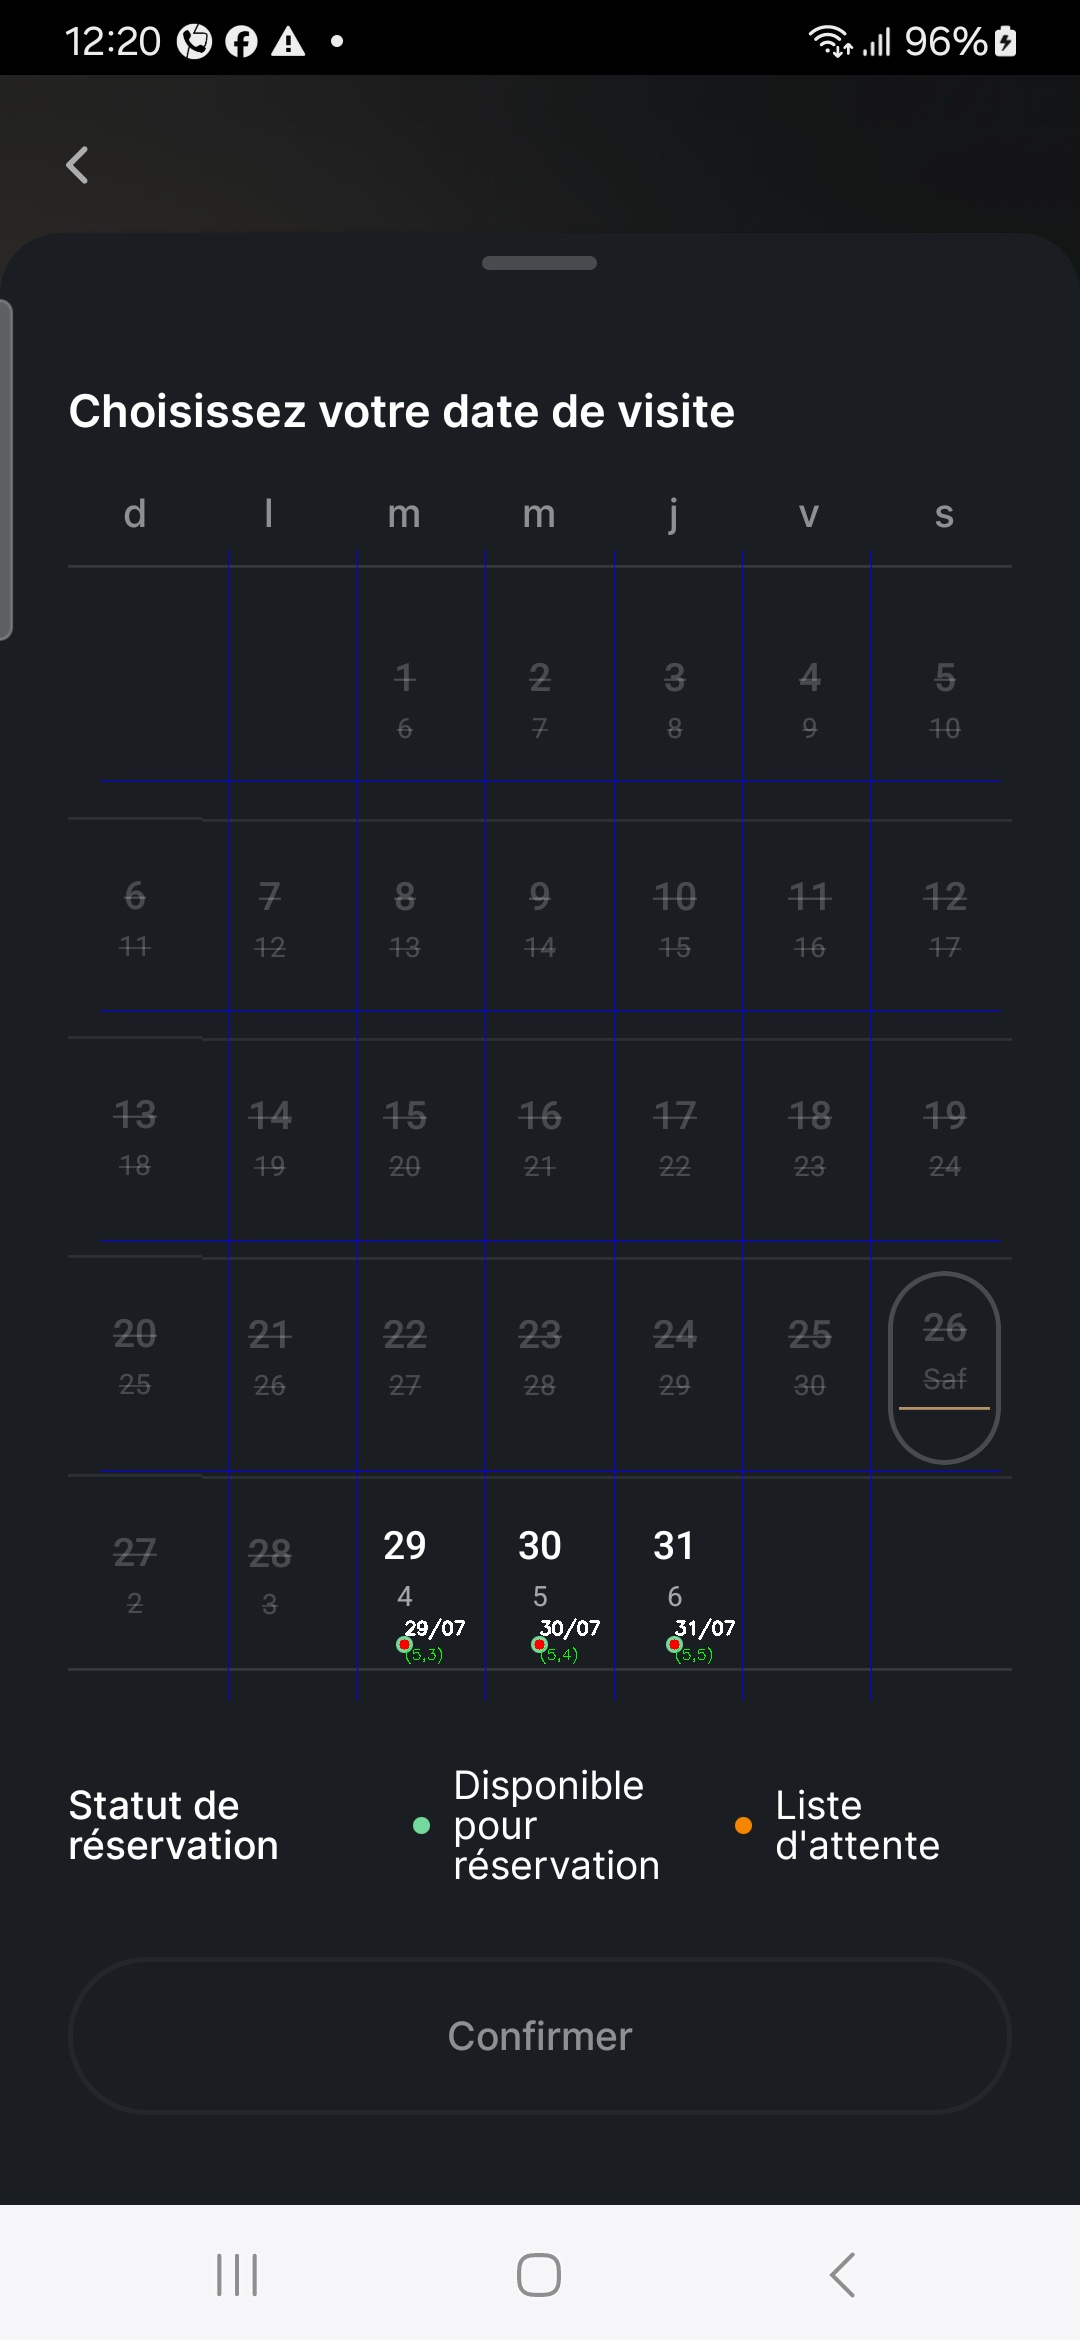
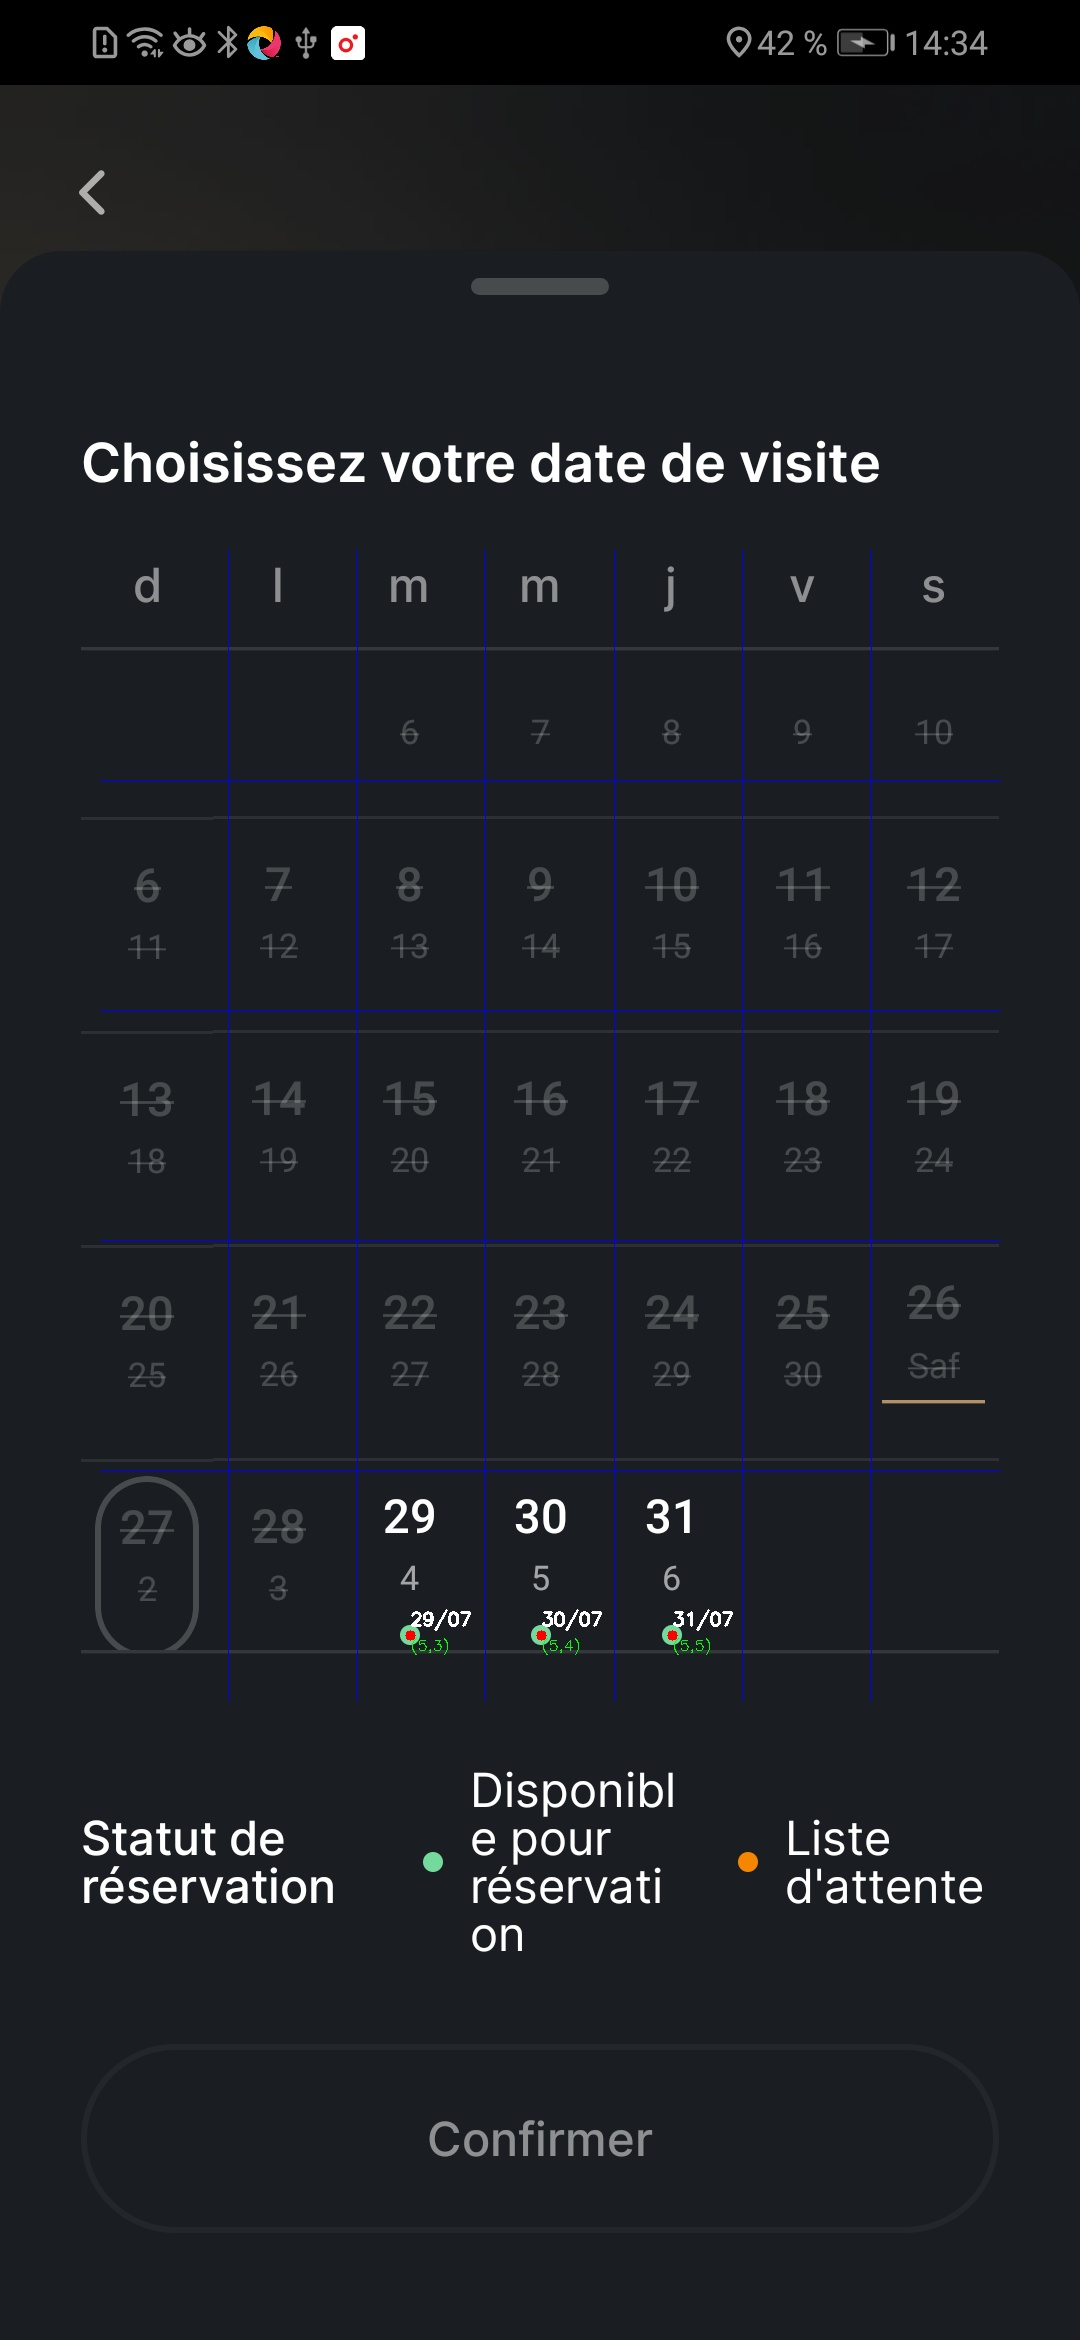
racem

diff --git a/login.py b/login.py
@@ -23,10 +23,10 @@ from appium.webdriver.common.touch_action import TouchAction
 
 
 
-csv_file = "C:/Users/lenovo/Desktop/riadh/omra/iraq/informations.csv"
-target_date = "27/07"
+csv_file = "C:/Users/SBS/Desktop/Hsouna/Indonesia10/informations.csv"
+target_date = "30/07"
 start_date = "26_07_2025"
-duration_days = 1  # Durée en jours
+duration_days = 8  # Durée en jours
 import threading
 
 def get_input_with_timeout(prompt, timeout):
@@ -47,10 +47,10 @@ def get_input_with_timeout(prompt, timeout):
 def setup_driver():
     options = UiAutomator2Options()
     options.platform_name = "Android"
-    options.platform_version = "14"  # Remplace par la version exacte de ton appareil
-    options.device_name = "RFCW50CH1ND"  # Remplace par l'ID de ton appareil (adb devices)
-    options.app_package = "com.moh.nusukapp"
-    options.app_activity = "com.moh.nusukapp/com.app.nusuk.LoginRegistrationActivity"
+    options.platform_version = "9"  # from adb shell getprop
+    options.device_name = "DEF4C19312001213"  # from adb devices
+    options.app_package = "com.moh.nusukapp"  # known from app details
+    options.app_activity = "com.app.nusuk.LoginRegistrationActivity"  # assumed (update if needed)
     options.automation_name = "uiautomator2"
     return webdriver.Remote("http://127.0.0.1:4723", options=options)
 
@@ -162,21 +162,29 @@ for index, row in df.iterrows():
                     else:
                         print("❌ Aucune validation trouvée.")
 
-                    sign_in_button = wait.until(EC.presence_of_element_located((AppiumBy.ID, "com.android.permissioncontroller:id/permission_allow_button")))
+                    sign_in_button = wait.until(EC.presence_of_element_located((AppiumBy.ID, "com.android.packageinstaller:id/permission_allow_button")))
                     sign_in_button.click()
+                   
 
-                    sign_in_button = wait.until(EC.presence_of_element_located((AppiumBy.ID, "com.moh.nusukapp:id/tvShareLocation")))
-                    sign_in_button.click()
-
-                    sign_in_button = wait.until(EC.presence_of_element_located((AppiumBy.ID, "com.android.permissioncontroller:id/permission_allow_foreground_only_button")))
-                    sign_in_button.click()
-
-                    sign_in_button = wait.until(EC.presence_of_element_located((AppiumBy.ID, "com.moh.nusukapp:id/tvNo")))
+                    sign_in_button = wait.until(EC.presence_of_element_located((AppiumBy.ID, "com.moh.nusukapp:id/nobleRawdahLL")))
                     sign_in_button.click()
                     
+                    time.sleep(2)
+                    # Récupérer tous les éléments visibles
+                    all_elements = driver.find_elements(AppiumBy.XPATH, "//*")
+                    book=0
+                    print("\n📌 Contenu complet de l'écran :\n")
+                    for element in all_elements:
+                            element_id = element.get_attribute("resource-id") or "Aucun ID"
+                            element_text = element.text or "Aucun texte"
+                            if "You already have an existing booking for" in element_text or "Vous avez déjà une réservation" in element_text or " have an active permit" in element_text:
+                                        df.at[index, 'RESERVATION'] ="1"
+                                        df.to_csv(csv_file, index=False, encoding="utf-8")
+                                        book=1
+                                        
+                            element_class = element.get_attribute("class") or "Aucune classe"
+                            print(f"🔹 ID: {element_id}, Texte: {element_text}, Classe: {element_class}")
 
-                    sign_in_button = wait.until(EC.presence_of_element_located((AppiumBy.ID, "com.moh.nusukapp:id/tvNobleRawdahTitle")))
-                    sign_in_button.click()
                     
 
                     type = None  # initialiser la variable
@@ -229,9 +237,10 @@ for index, row in df.iterrows():
                     screen_size = driver.get_window_size()
                     start_x = screen_size['width'] // 2
                     start_y = int(screen_size['height'] * 0.6)
-                    end_y = int(screen_size['height'] * 0.55)
-
-                    driver.swipe(start_x, start_y, start_x, end_y, 500)
+                    end_y = int(screen_size['height'] * 0.51)
+                    time.sleep(0.5)
+                    driver.swipe(start_x, start_y, start_x, end_y, 100)
+                    time.sleep(1.5)
                     screenshot_path = "images/calendar_screenshot.png"
                     driver.save_screenshot(screenshot_path)
                     print(f"Screenshot sauvegardé à : {screenshot_path}")
@@ -259,10 +268,17 @@ for index, row in df.iterrows():
 
 
                     # Filtrer les dates disponibles entre `start_date` et `end_date`
-                    filtered_dates = [
-                        (date, x,y) for date, x,y in available_dates
-                        if start_str <= date <= end_str  # Comparaison uniquement sur JJ/MM
-                    ]
+                    filtered_dates = []
+                    for date_str, x, y in available_dates:
+                        try:
+                            date_obj = datetime.strptime(date_str, "%d/%m")
+                            # Replace year so it matches start_dt and end_dt
+                            date_obj = date_obj.replace(year=start_dt.year)
+
+                            if start_dt <= date_obj <= end_dt:
+                                filtered_dates.append((date_str, x, y))
+                        except ValueError:
+                            print(f"⚠ Date format error with '{date_str}'")
 
                     # Afficher les résultats
                     print(f"\n🔹 Plage de dates : {start_str} → {end_str}")

diff --git a/utils.py b/utils.py
@@ -18,7 +18,7 @@ def generate_all_saudi_numbers():
     Génère toutes les possibilités de numéros mobiles saoudiens commençant par '058'
     et suivis de 7 chiffres (de 0000000 à 9999999).
     """
-    prefix = "51"
+    prefix = "59"
     for i in range(10**7):
         yield prefix + f"{i:07d}"
 
@@ -137,48 +137,49 @@ def merge_pdfs_in_folder(folder_path, output_file):
 
 # Exemple d'utilisation
 if __name__ == "__main__":
-    """filename_number_json = "C:/Users/lenovo/Desktop/riadh/omra/saudi_numbers.json"
+    folder_name = "Indonesia10"
+    csv_file = f"C:/Users/SBS/Desktop/Hsouna/{folder_name}/informations.csv"
+    
+
+    fieldnames = ["id","nom", "prenom", "date_de_naissance", "numero_visa","email","numero_tlf", "numero_passport","type_voyage","date_entree_madinah","duree_jours","have_a_compte","CREATION","RESERVATION","CONFIRMATION","date_reservation","heure"]
+
+    create_csv(csv_file,fieldnames)
+    dossier = "C:/Users/SBS/Desktop/Hsouna/PDFs"
+    fichier_sortie = f"C:/Users/SBS/Desktop/Hsouna/{folder_name}/VISA 23_07_2025.pdf"
+
+    merge_pdfs_in_folder(dossier, fichier_sortie)
+
+
+    """
+    filename_number_json = "C:/Users/SBS/Desktop/Hsouna/saudi_numbers.json"
     
 
     # Définition des colonnes (avec la nouvelle colonne 'creation')
     
-    save_saudi_numbers_to_json(filename_number_json, count=1028)
+    save_saudi_numbers_to_json(filename_number_json, count=10280)
+    email_base = "[email redacted]"
+    filename_email_json = "C:/Users/SBS/Desktop/Hsouna/email_variants.json"
+    save_variants_to_json(email_base, filename_email_json)
+    
 
     
         df = pd.read_csv(csv_file, dtype=str)
     for i in range(159,165):
         df.at[i,"RESERVATION"]="1"
         df.at[i,"CONFIRMATION"]="1"
-    email_base = "[email redacted]"
-    filename_email_json = "C:/Users/lenovo/Desktop/riadh/omra/email_variants.json"
-    save_variants_to_json(email_base, filename_email_json)
+
 
     df = pd.read_csv(csv_file, dtype=str)
     for i in range(0,70):
         df.at[i,"CREATION"]="1"
     df.to_csv(csv_file, index=False, encoding="utf-8")
-    """
-    """"""
-    folder_name = "indonesia5"
-    csv_file = f"C:/Users/lenovo/Desktop/riadh/omra/{folder_name}/informations.csv"
+    
     
 
-    fieldnames = ["id","nom", "prenom", "date_de_naissance", "numero_visa","email","numero_tlf", "numero_passport","type_voyage","date_entree_madinah","duree_jours","have_a_compte","CREATION","RESERVATION","CONFIRMATION","date_reservation","heure"]
-
-    create_csv(csv_file,fieldnames)
-    dossier = "C:/Users/lenovo/Desktop/riadh/omra/pdfs"
-    fichier_sortie = f"C:/Users/lenovo/Desktop/riadh/omra/{folder_name}/VISA 23_07_2025.pdf"
-
-    merge_pdfs_in_folder(dossier, fichier_sortie)
-
         
-    """ df.drop(i, inplace=True)  
+    df.drop(i, inplace=True)  
 
     df.reset_index(drop=True, inplace=True)  # Réinitialise l'index après suppression
     """
-
-    
-    """"""
-
 
     

diff --git a/CreationReservation.py b/CreationReservation.py
@@ -15,25 +15,27 @@ from utils import mois_en_lettres
 from pdf import pop_first_variant
 from selenium.webdriver.common.action_chains import ActionChains
 
-pays="Indonesia"
-paysUpper="indonesia"
-folder_name = "indonesia4"
+pays="Iraq"
+paysUpper="iraq"
+folder_name = "Indonesia10"
 # File paths
-csv_file = f"C:/Users/lenovo/Desktop/riadh/omra/{folder_name}/informations.csv"
-filename_email_json = "C:/Users/lenovo/Desktop/riadh/omra/email_variants.json"
-filename_number_json = "C:/Users/lenovo/Desktop/riadh/omra/saudi_numbers.json"
+csv_file = f"C:/Users/SBS/Desktop/Hsouna/{folder_name}/informations.csv"
+filename_email_json = "C:/Users/SBS/Desktop/Hsouna/email_variants.json"
+filename_number_json = "C:/Users/SBS/Desktop/Hsouna/saudi_numbers.json"
 
-target_date = "29/07"  # Adjust logic as needed
+target_date = "30/07"  # Adjust logic as needed
 time.sleep(60*0)
+
 def setup_driver():
     options = UiAutomator2Options()
     options.platform_name = "Android"
-    options.platform_version = "14"
-    options.device_name = "RFCW50CH1ND"
-    options.app_package = "com.moh.nusukapp"
-    options.app_activity = "com.moh.nusukapp/com.app.nusuk.LoginRegistrationActivity"
+    options.platform_version = "9"  # from adb shell getprop
+    options.device_name = "DEF4C19312001213"  # from adb devices
+    options.app_package = "com.moh.nusukapp"  # known from app details
+    options.app_activity = "com.app.nusuk.LoginRegistrationActivity"  # assumed (update if needed)
     options.automation_name = "uiautomator2"
     return webdriver.Remote("http://127.0.0.1:4723", options=options)
+
 
 # Load CSV
 df = pd.read_csv(csv_file, dtype=str)
@@ -255,9 +257,20 @@ for index, row in df.iterrows():
             # Handle permissions and location
             create_now = 0
             try:
-                elements = driver.find_elements(AppiumBy.ID, "com.android.permissioncontroller:id/permission_message")
+                
+                wait = WebDriverWait(driver, 10)
+                driver.save_screenshot("before_check.png")
+                print(driver.page_source)
+
+                element = wait.until(
+                        EC.presence_of_element_located(
+                            (AppiumBy.ID, "com.android.packageinstaller:id/permission_message")
+                        )
+                    )
+                print("Permission popup found:", element.text)
                 if elements and "Autoriser" in elements[0].text:
-                    sign_in_button = wait.until(EC.presence_of_element_located((AppiumBy.ID, "com.android.permissioncontroller:id/permission_allow_button")))
+                    print("Autorisation de l'application requise.\n")
+                    sign_in_button = wait.until(EC.presence_of_element_located((AppiumBy.ID, "com.android.packageinstaller:id/permission_allow_button")))
                     sign_in_button.click()
                     df.at[index, 'CREATION'] = "1"
                     df.to_csv(csv_file, index=False, encoding="utf-8")
@@ -266,7 +279,7 @@ for index, row in df.iterrows():
                     # Handle location permissions
                     sign_in_button = wait.until(EC.presence_of_element_located((AppiumBy.ID, "com.moh.nusukapp:id/tvShareLocation")))
                     sign_in_button.click()
-                    sign_in_button = wait.until(EC.presence_of_element_located((AppiumBy.ID, "com.android.permissioncontroller:id/permission_allow_foreground_only_button")))
+                    sign_in_button = wait.until(EC.presence_of_element_located((AppiumBy.ID, "com.android.packageinstaller:id/permission_allow_foreground_only_button")))
                     sign_in_button.click()
                     sign_in_button = wait.until(EC.presence_of_element_located((AppiumBy.ID, "com.moh.nusukapp:id/tvNo")))
                     sign_in_button.click()
@@ -334,7 +347,7 @@ for index, row in df.iterrows():
 
                     # Define date range
                     start_date = dict_row["date_entree_madinah"]  # e.g., "25_07_2025"
-                    duration_days = 7  # Define or get from CSV
+                    duration_days = 14  # Define or get from CSV
                     start_dt = datetime.strptime(start_date, "%d_%m_%Y") + timedelta(days=1)
                     end_dt = start_dt + timedelta(days=duration_days - 1)
                     start_str = start_dt.strftime("%d/%m")

diff --git a/pdf.py b/pdf.py
@@ -4,16 +4,15 @@ import pandas as pd
 import json
 
 
-folder_name = "indonesia5"
-email_base = "[email redacted]"
-filename_email_json = "C:/Users/lenovo/Desktop/riadh/omra/email_variants.json"
-filename_number_json = "C:/Users/lenovo/Desktop/riadh/omra/saudi_numbers.json"
+folder_name = "Indonesia10"
+filename_email_json = "C:/Users/SBS/Desktop/Hsouna/email_variants.json"
+filename_number_json = "C:/Users/SBS/Desktop/Hsouna/saudi_numbers.json"
 
 # Nom du fichier CSV à créer
-csv_file = f"C:/Users/lenovo/Desktop/riadh/omra/{folder_name}/informations.csv"
+csv_file = f"C:/Users/SBS/Desktop/Hsouna/{folder_name}/informations.csv"
 # Définition des colonnes (avec la nouvelle colonne 'creation')
 fieldnames = ["id","nom", "prenom", "date_de_naissance", "numero_visa","email","numero_tlf", "numero_passport","type_voyage","date_entree_madinah","duree_jours","have_a_compte","CREATION","RESERVATION","CONFIRMATION","date_reservation","heure"]
-pdf_path = f"C:/Users/lenovo/Desktop/riadh/omra/{folder_name}/VISA 23_07_2025.pdf"
+pdf_path = f"C:/Users/SBS/Desktop/Hsouna/{folder_name}/VISA 23_07_2025.pdf"
 def pop_first_variant(filename_email_json):
     
     # Charger le contenu du fichier JSON

diff --git a/mail.py b/mail.py
@@ -19,6 +19,9 @@ def get_verification_code(email1):
     elif email1== "[email redacted]" :
         EMAIL = "[email redacted]"
         PASSWORD = "ugqm lfig dxxh aguc"
+    elif email1== "[email redacted]" :
+        EMAIL = "[email redacted]"
+        PASSWORD = "szim wisj vgns blrt"
     print(EMAIL)
     IMAP_SERVER = "imap.gmail.com"
     IMAP_PORT = 993